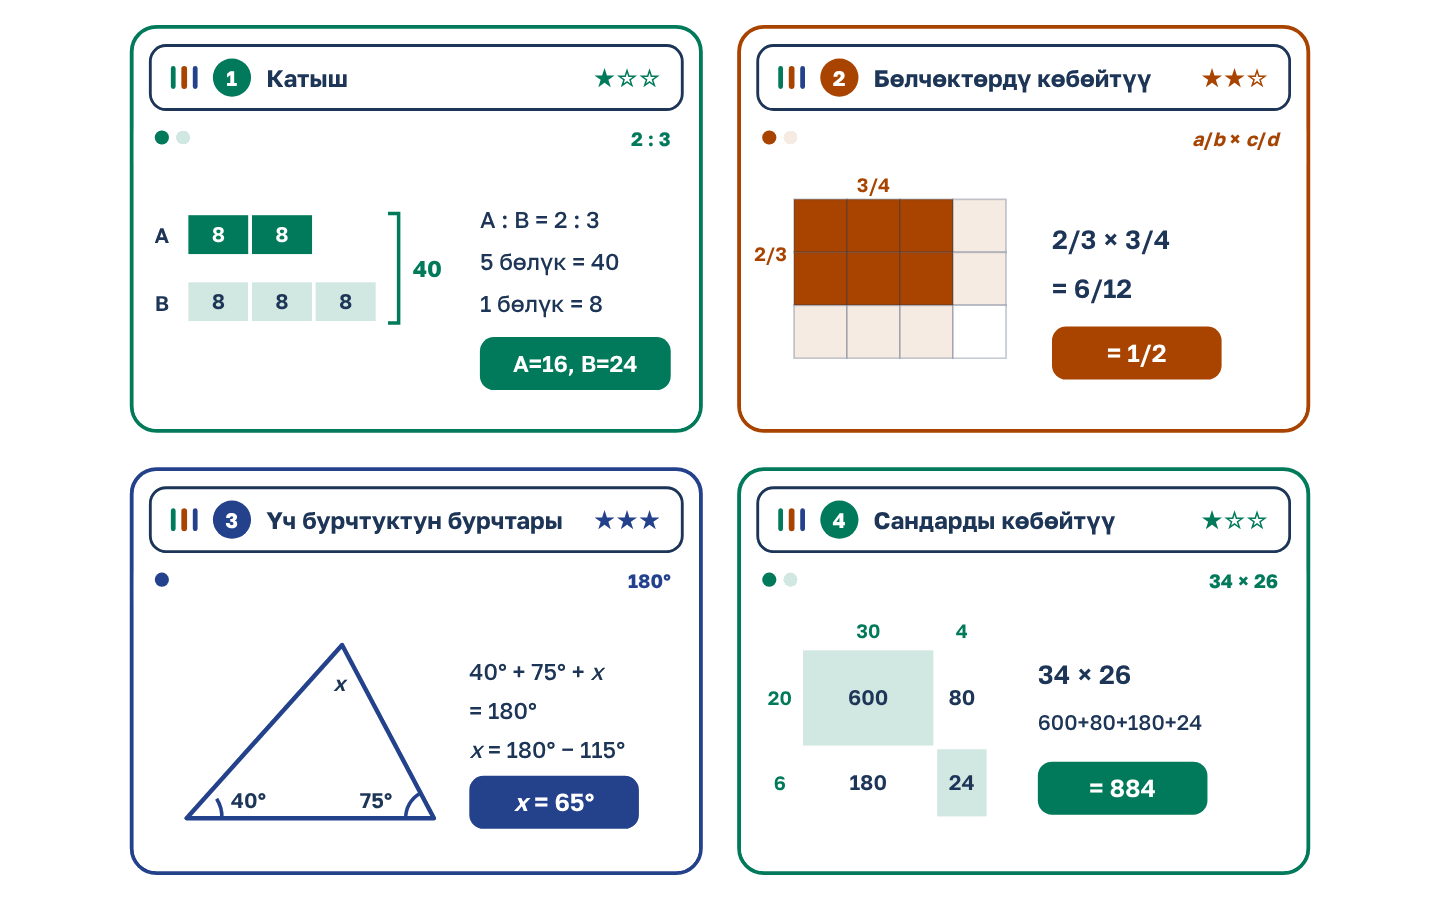
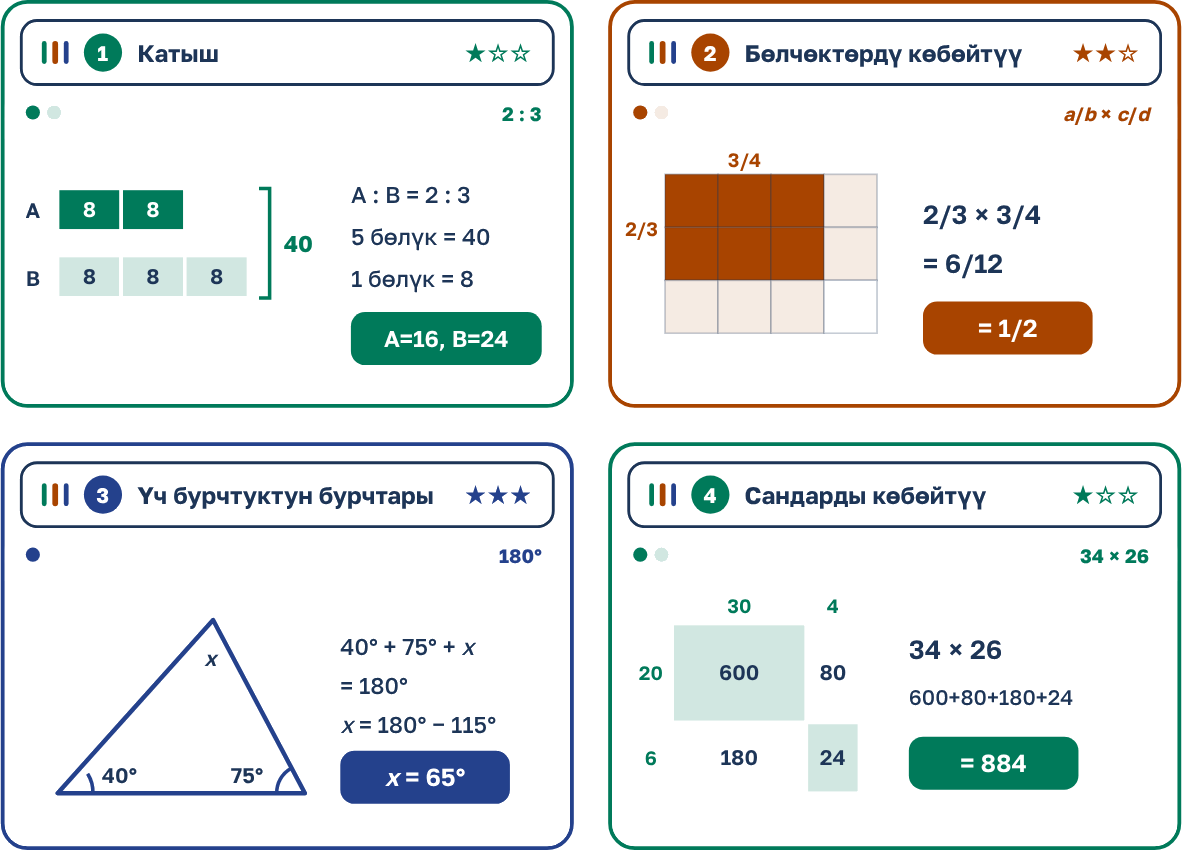
Crop home illustrations so they fill their frames.
The seven home drawings had wide white margins. They are cropped to the artwork and re-exported as WebP, with the PNG kept as the fallback. The card no longer insets the picture, and each image's width and height match the cropped file.

Changed region(s): [[0.0, 0.52, 1.0, 1.0], [0.0, 0.0, 1.0, 0.4894]]

diff --git a/templates/resources/home.html b/templates/resources/home.html
@@ -39,7 +39,7 @@
             <div class="illustration-card">
               <picture>
                 <source srcset="{% static 'img/home/intro.webp' %}" type="image/webp">
-                <img class="mk-zoom" tabindex="0" src="{% static 'img/home/intro.png' %}" width="1440" height="900" alt="Даяр материалдардын китепканасы" decoding="async">
+                <img class="mk-zoom" tabindex="0" src="{% static 'img/home/intro.png' %}" width="1068" height="851" alt="Даяр материалдардын китепканасы" decoding="async">
               </picture>
             </div>
           </div>
@@ -80,7 +80,7 @@
           <div class="illustration-card">
             <picture>
               <source srcset="{% static 'img/home/presentations.webp' %}" type="image/webp">
-              <img class="mk-zoom" tabindex="0" src="{% static 'img/home/presentations.png' %}" width="1440" height="900" alt="Слайддагы диаграмма" loading="lazy" decoding="async">
+              <img class="mk-zoom" tabindex="0" src="{% static 'img/home/presentations.png' %}" width="1182" height="850" alt="Слайддагы диаграмма" loading="lazy" decoding="async">
             </picture>
           </div>
         </div>
@@ -116,7 +116,7 @@
             <div class="illustration-card">
               <picture>
                 <source srcset="{% static 'img/home/worksheets.webp' %}" type="image/webp">
-                <img class="mk-zoom" tabindex="0" src="{% static 'img/home/worksheets.png' %}" width="1440" height="900" alt="Иш барак жана калем" loading="lazy" decoding="async">
+                <img class="mk-zoom" tabindex="0" src="{% static 'img/home/worksheets.png' %}" width="962" height="850" alt="Иш барак жана калем" loading="lazy" decoding="async">
               </picture>
             </div>
           </div>
@@ -134,7 +134,7 @@
           <div class="illustration-card">
             <picture>
               <source srcset="{% static 'img/home/activities.webp' %}" type="image/webp">
-              <img class="mk-zoom" tabindex="0" src="{% static 'img/home/activities.png' %}" width="1440" height="900" alt="Оюн зарлары" loading="lazy" decoding="async">
+              <img class="mk-zoom" tabindex="0" src="{% static 'img/home/activities.png' %}" width="962" height="850" alt="Оюн зарлары" loading="lazy" decoding="async">
             </picture>
           </div>
         </div>
@@ -170,7 +170,7 @@
             <div class="illustration-card">
               <picture>
                 <source srcset="{% static 'img/home/teacher-led.webp' %}" type="image/webp">
-                <img class="mk-zoom" tabindex="0" src="{% static 'img/home/teacher-led.png' %}" width="1440" height="900" alt="Класс менен талкуу" loading="lazy" decoding="async">
+                <img class="mk-zoom" tabindex="0" src="{% static 'img/home/teacher-led.png' %}" width="962" height="850" alt="Класс менен талкуу" loading="lazy" decoding="async">
               </picture>
             </div>
           </div>
@@ -186,7 +186,7 @@
           <div class="illustration-card">
             <picture>
               <source srcset="{% static 'img/home/exam.webp' %}" type="image/webp">
-              <img class="mk-zoom" tabindex="0" src="{% static 'img/home/exam.png' %}" width="1440" height="900" alt="Убакыттуу экзамен суроолору" loading="lazy" decoding="async">
+              <img class="mk-zoom" tabindex="0" src="{% static 'img/home/exam.png' %}" width="1172" height="851" alt="Убакыттуу экзамен суроолору" loading="lazy" decoding="async">
             </picture>
           </div>
         </div>
@@ -228,7 +228,7 @@
             <div class="illustration-card">
               <picture>
                 <source srcset="{% static 'img/home/revision.webp' %}" type="image/webp">
-                <img class="mk-zoom" tabindex="0" src="{% static 'img/home/revision.png' %}" width="1440" height="900" alt="Кайталап көнүгүү" loading="lazy" decoding="async">
+                <img class="mk-zoom" tabindex="0" src="{% static 'img/home/revision.png' %}" width="1212" height="850" alt="Кайталап көнүгүү" loading="lazy" decoding="async">
               </picture>
             </div>
           </div>

diff --git a/static/css/illustrations.css b/static/css/illustrations.css
@@ -1,17 +1,15 @@
 /* Homepage section graphics (templates/resources/home.html).
-   Each .illustration-card holds a 2x PNG of that section's illustration
-   (static/img/home/), rendered from the approved mockup. The image fills
-   its column; the text columns beside it are unchanged. */
+   Each card holds that section's illustration (static/img/home/),
+   cropped to the drawing. The picture is edge to edge in the card
+   on every screen width; the text columns beside it are unchanged. */
 
 .illustration-card {
-    display: flex;
-    align-items: center;
-    justify-content: center;
+    display: block;
     background: transparent;
     border: none;
     border-radius: var(--radius-md, 12px);
     box-shadow: none;
-    padding: 8px;
+    padding: 0;
     margin: 0 auto;
     max-width: 100%;
     width: 100%;
@@ -20,11 +18,16 @@
 .illustration-card:hover {
     transform: translateY(-4px);
 }
+.illustration-card picture {
+    display: block;
+    width: 100%;
+    margin: 0;
+}
 .illustration-card svg,
 .illustration-card img {
     width: 100%;
     height: auto;
-    max-width: none;
+    max-width: 100%;
     display: block;
 }
 

diff --git a/apps/resources/test_home_speed.py b/apps/resources/test_home_speed.py
@@ -1,8 +1,20 @@
 """The first screen does not carry the whole topic menu."""
+from django.conf import settings
 from django.test import TestCase
 from django.urls import reverse
+from PIL import Image, ImageChops
 
 from apps.resources.models import MenuItem
+
+HOME_ILLUSTRATIONS = (
+    'intro',
+    'presentations',
+    'worksheets',
+    'activities',
+    'teacher-led',
+    'exam',
+    'revision',
+)
 
 
 class HomeMenuWeightTests(TestCase):
@@ -16,9 +28,26 @@ class HomeMenuWeightTests(TestCase):
         self.assertIn('Сандар', html)
         self.assertIn('id="siteCategoryMenu"', html)
         self.assertNotIn('Ондуктарды кошуу', html)
-        self.assertIn('width="1440"', html)
+        self.assertIn('width="1068"', html)
+        self.assertIn('height="851"', html)
         self.assertIn('intro.webp', html)
         self.assertIn('loading="lazy"', html)
+
+    def test_home_illustrations_fill_their_frame(self):
+        html = self.client.get(reverse('home')).content.decode()
+        folder = settings.BASE_DIR / 'static' / 'img' / 'home'
+        for name in HOME_ILLUSTRATIONS:
+            png = Image.open(folder / f'{name}.png').convert('RGB')
+            webp = Image.open(folder / f'{name}.webp')
+            self.assertEqual(webp.size, png.size)
+            self.assertIn(f'img/home/{name}.webp', html)
+            self.assertIn(f'width="{png.width}"', html)
+            self.assertIn(f'height="{png.height}"', html)
+            diff = ImageChops.difference(
+                png, Image.new('RGB', png.size, (255, 255, 255))
+            ).convert('L')
+            mask = diff.point(lambda p: 255 if p > 8 else 0)
+            self.assertEqual(mask.getbbox(), (0, 0, png.width, png.height))
 
     def test_menu_fragment_has_the_links_and_can_be_cached(self):
         response = self.client.get(reverse('menu_fragment'))

diff --git a/apps/resources/management/commands/seed_launch_news.py b/apps/resources/management/commands/seed_launch_news.py
@@ -7,6 +7,14 @@ from apps.resources.models import NewsPost
 NEWS_ITEMS = [
     {
         'published_date': date(2026, 11, 2),
+        'title': 'Башкы беттин сүрөттөрү алкагын толтурат',
+        'body': (
+            'Башкы беттеги сүрөттөрдүн айланасындагы бош ак тилке алынды. '
+            'Сүрөт эми өз алкагын толук ээлейт, компьютерде да, телефондо да.'
+        ),
+    },
+    {
+        'published_date': date(2026, 11, 2),
         'title': 'Башкы бет телефондо тезирээк ачылат',
         'body': (
             'Башкы беттин сүрөттөрү жеңилдеди. Темалар менюсу биринчи экран менен '
